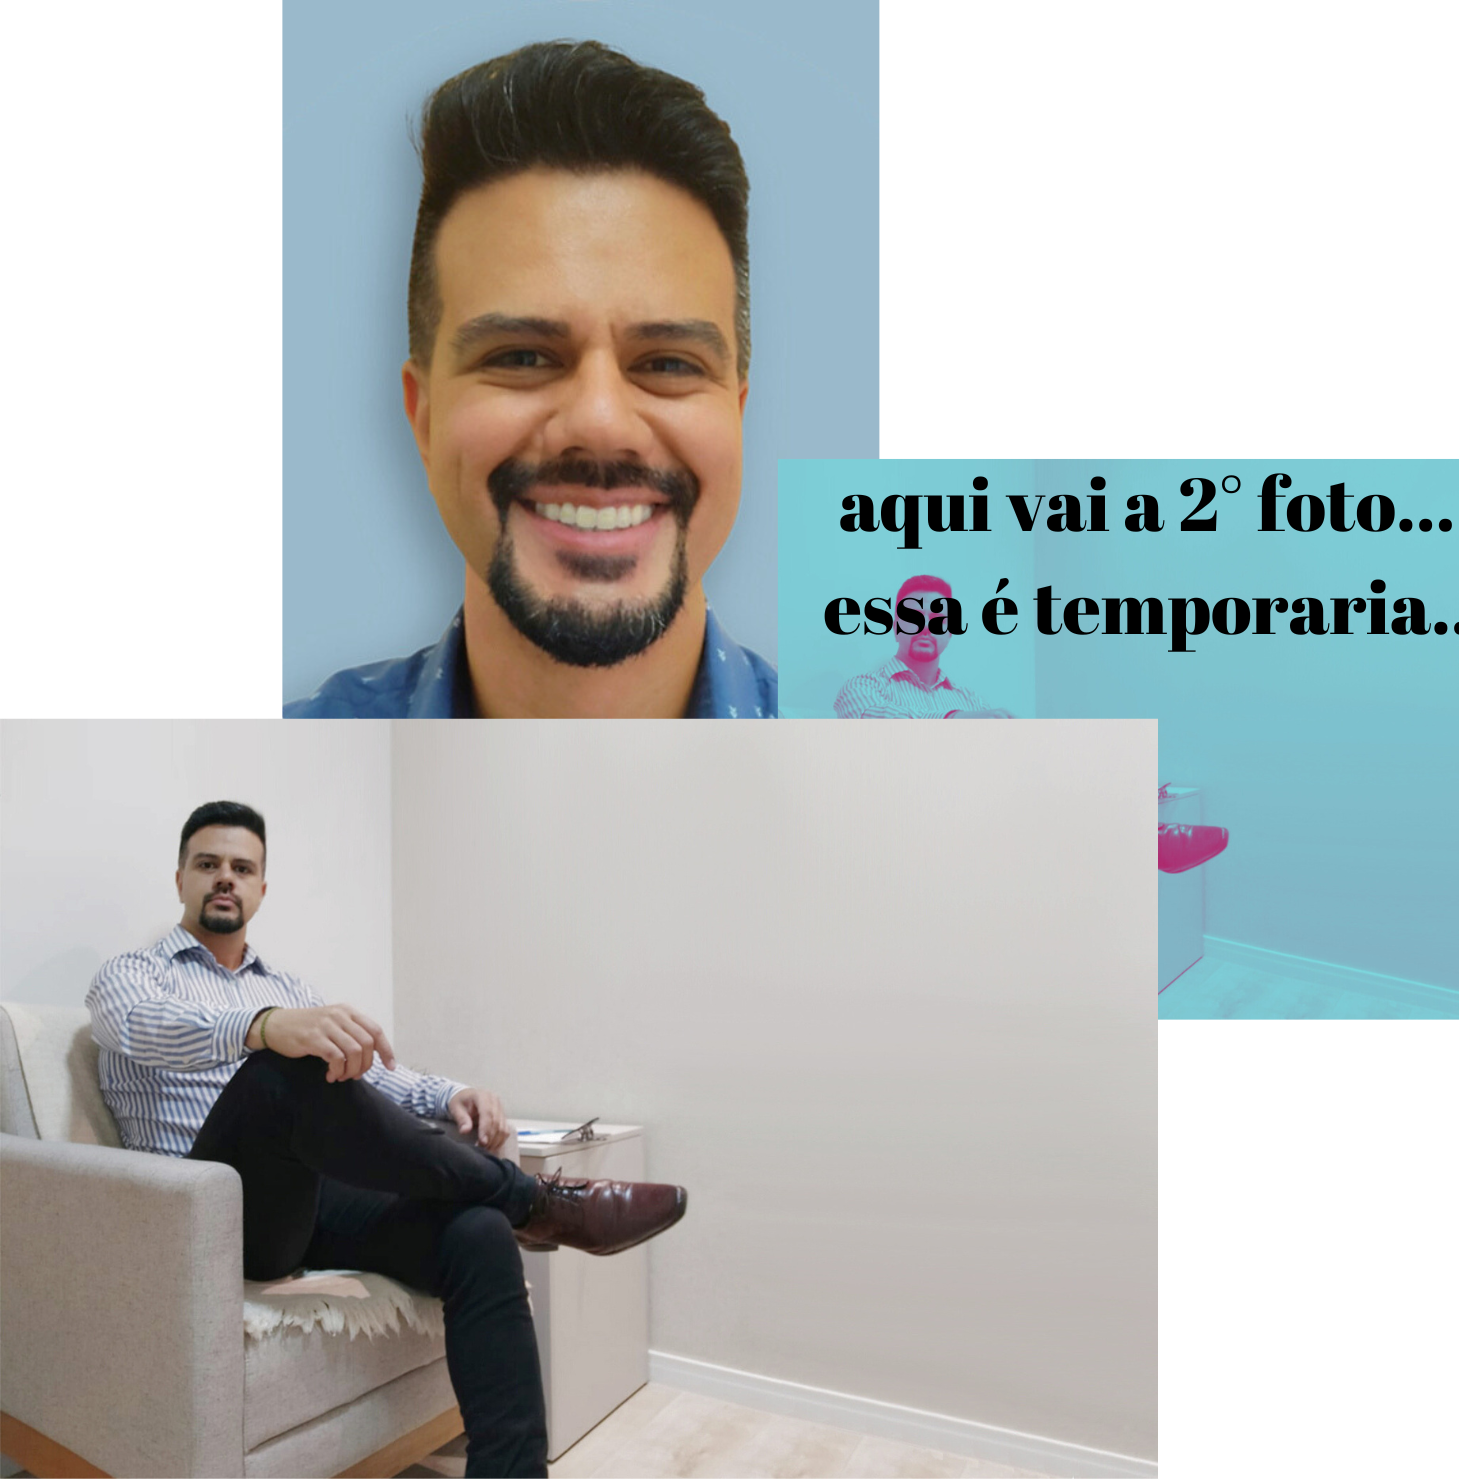
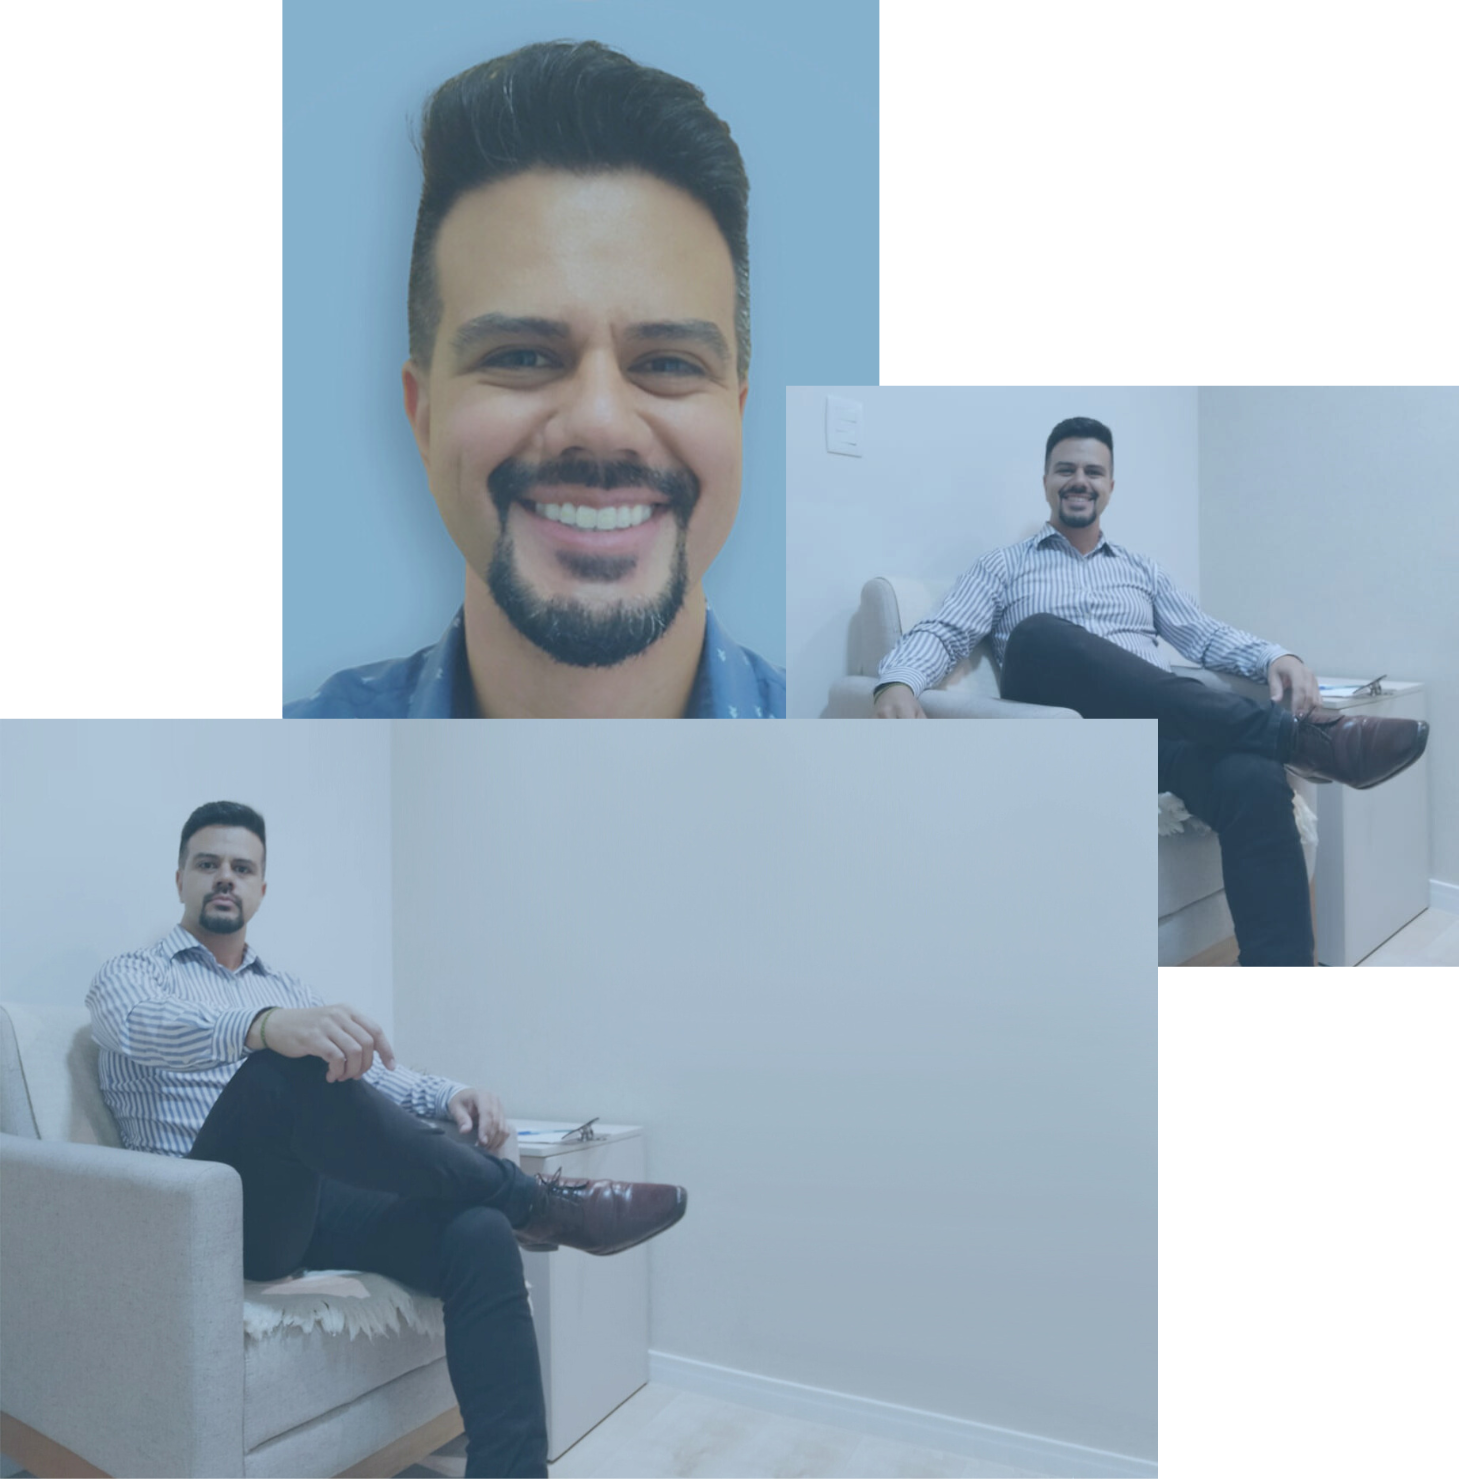
update 2 files and delete 1 file

diff --git a/css/style.css b/css/style.css
@@ -91,6 +91,11 @@
 }
 .hero-img {
   width: 100%;
+  background-image: linear-gradient(
+    to right bottom,
+    rgba(116, 192, 252, 0.35),
+    rgba(93,154 ,202, 0.35)
+  ),
 }
 .delivered-meals {
   display: flex;
